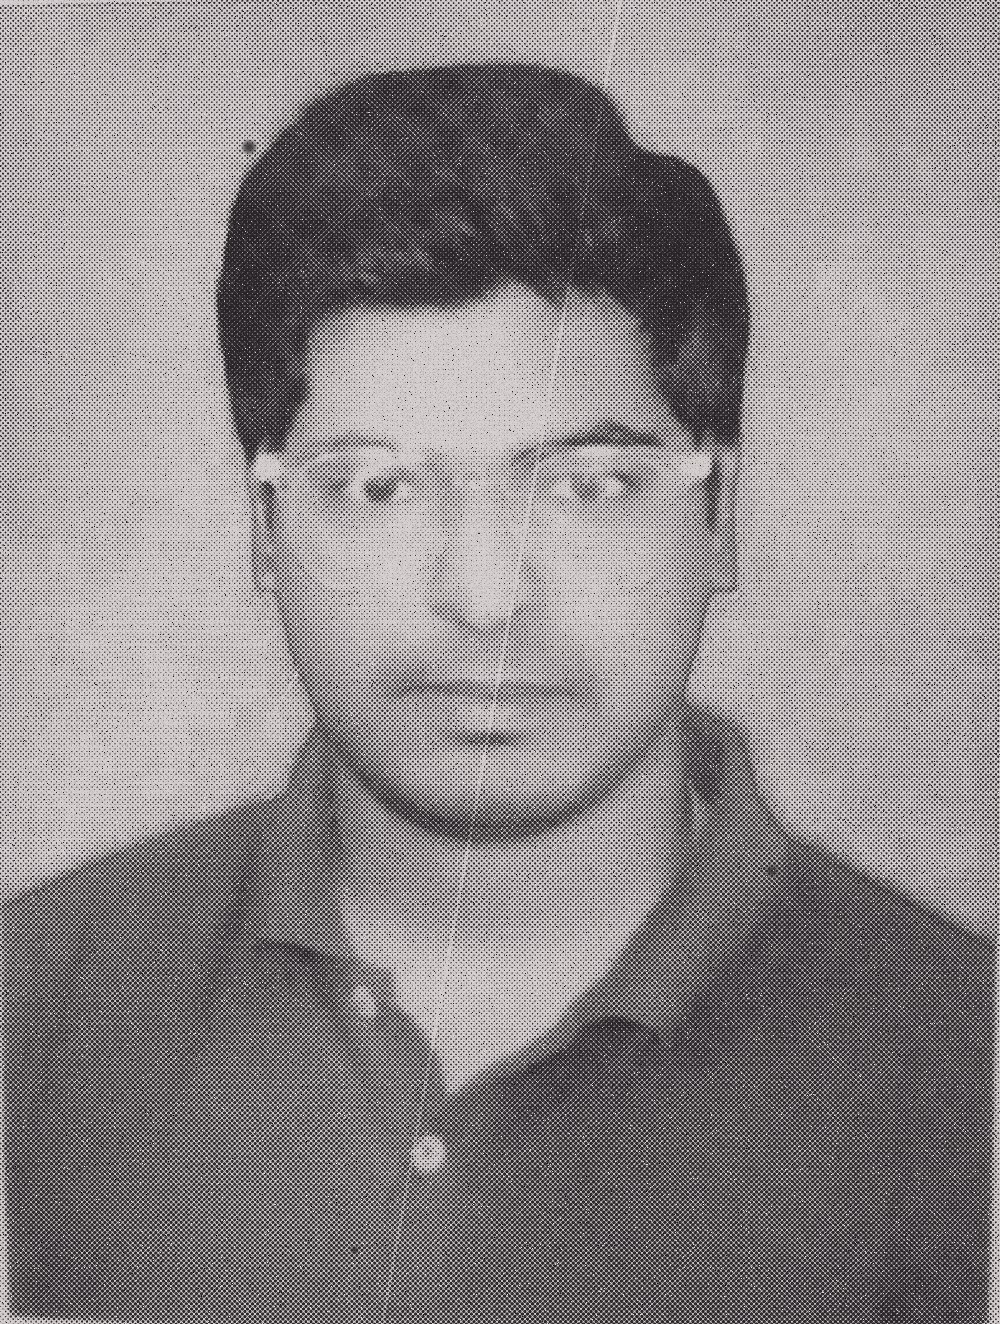
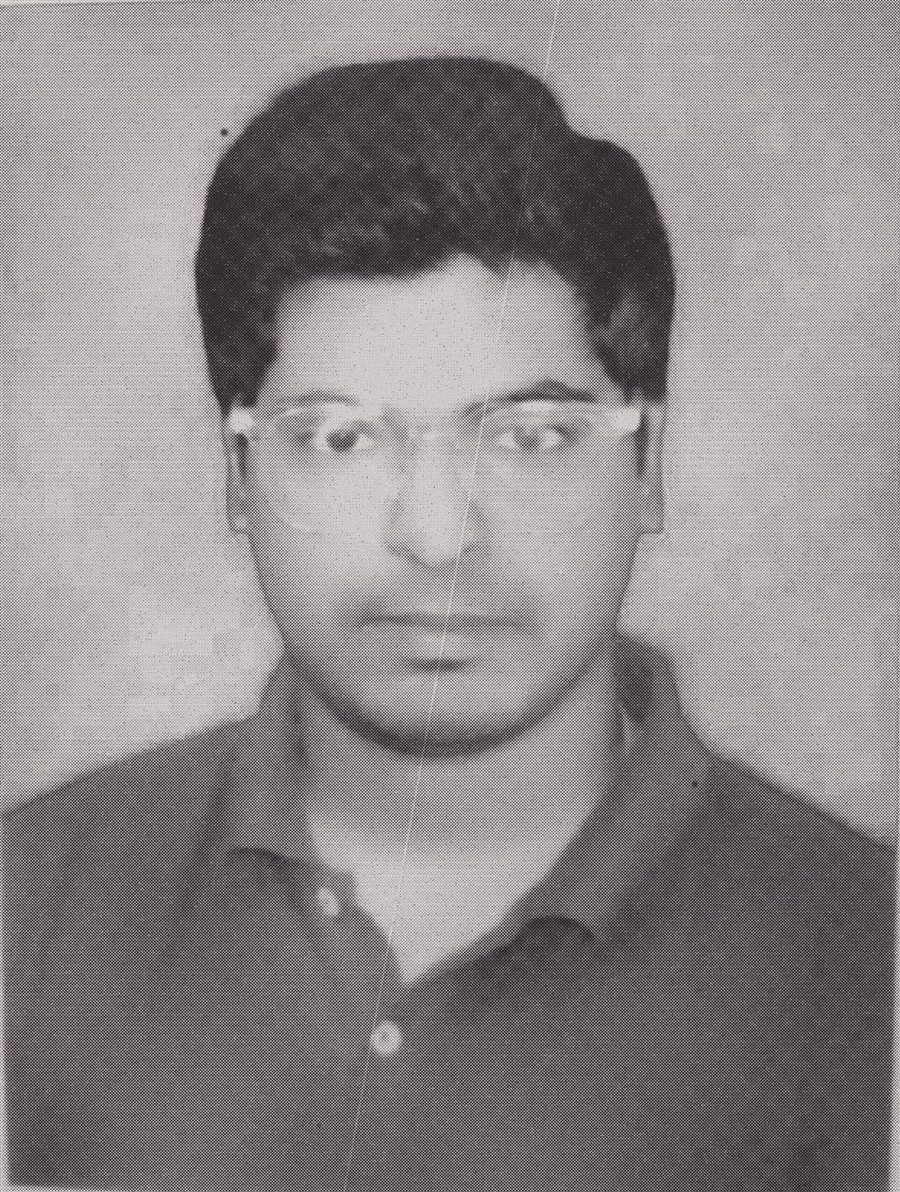
About: sketches clean with the old look only on their paper; 1st photo with much finer texture

diff --git a/index.html b/index.html
@@ -944,7 +944,7 @@
             <h2 style="left: 40px; top: 30px; transform: rotate(-2deg)">pen &amp; ink</h2>
             <!-- the pen portraits (moved here from the first spread): bigger, the clean print with only a light photocopy feel -->
             <figure class="abCopy" style="left: 120px; top: 110px; transform: rotate(-3deg); filter: none">
-              <div class="tear"><img src="assets/about/pen-copy2.jpg?v=2" alt="Pen portraits: a turtle, a koala, a dancer, a squirrel, a Kathakali face and a warkari" width="500" height="687"></div>
+              <div class="tear"><img src="assets/about/pen-copy2.jpg?v=3" alt="Pen portraits: a turtle, a koala, a dancer, a squirrel, a Kathakali face and a warkari" width="500" height="687"></div>
             </figure>
             <div class="abNote" style="left: 150px; top: 830px; width: 460px; transform: rotate(-1deg); text-align: center">pen &amp; ink —<br>a turtle, a sleepy koala &amp; a few faces</div>
           </div>
@@ -966,7 +966,7 @@
             <div class="abSticky" style="left: 44px; top: 140px; width: 230px; transform: rotate(-3deg)">I started by moving furniture around on a screen. Now I move buttons around on one.</div>
             <!-- big: sitting by the curtain, photocopied -->
             <figure class="abCopy" style="left: 388px; top: 112px; transform: rotate(3deg)">
-              <div class="tear"><img src="assets/about/copy-sit2.jpg?v=6" alt="Gandhar in glasses, a passport photo, as a grainy photocopy" width="220" height="291"></div>
+              <div class="tear"><img src="assets/about/copy-sit2.jpg?v=7" alt="Gandhar in glasses, a passport photo, as a grainy photocopy" width="220" height="291"></div>
             </figure>
             <span class="abTape" style="left: 476px; top: 100px; transform: rotate(-5deg)"></span>
             <div class="abNote" style="left: 440px; top: 420px; width: 200px; transform: rotate(-2deg)">that’s me!</div>
